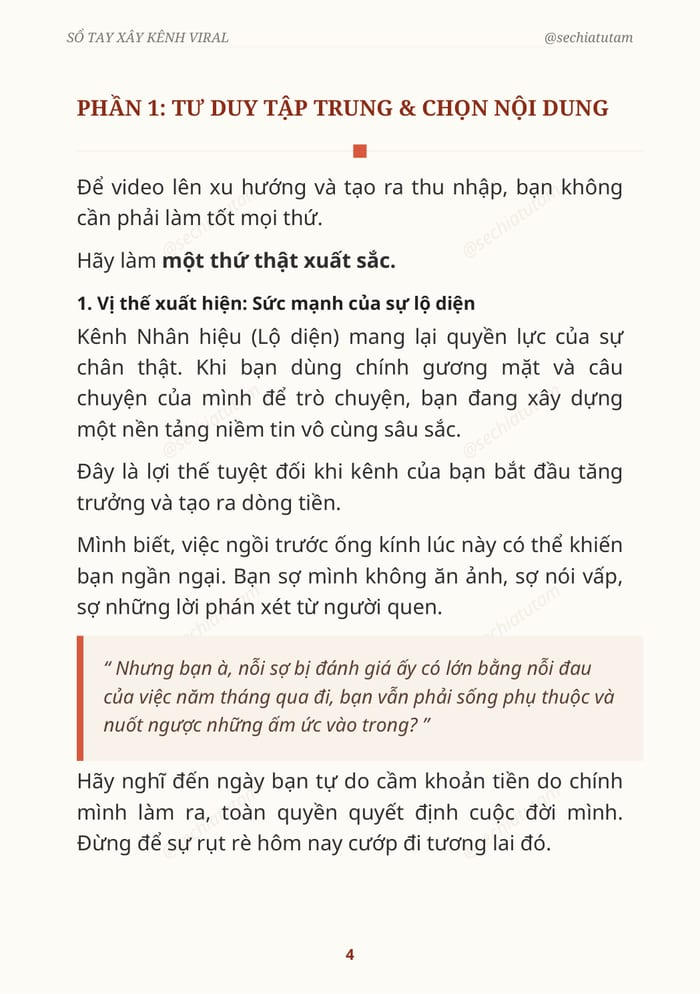
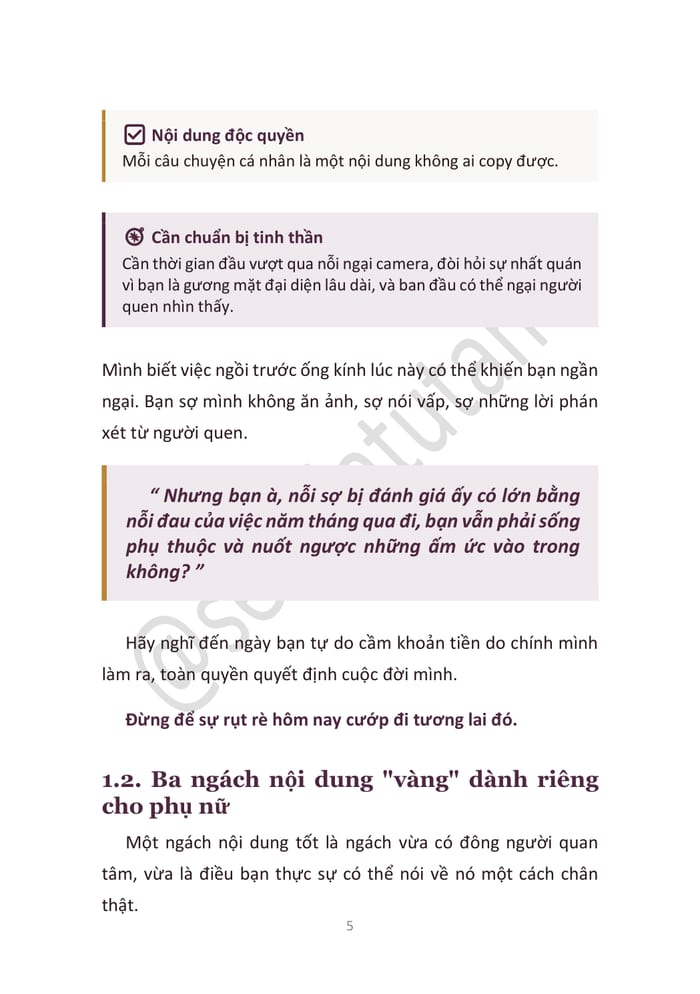
Cap nhat theo dung ban PDF cuoi cung (21 trang) ban thuc te
- Thay private/ bang file PDF chuan 21 trang ban gui (D:\sechiatutam\...)
  - ban nay day du hon ca 2 ban truoc, co them phan "Cach dung so tay"
  va "Lo trinh hanh dong 30 ngay"
- Sua FAQ tu "15 trang" (sai, tu ban cu) thanh dung "21 trang"
- Viet lai muc luc (TOC) khop chinh xac cau truc that: 8 phan thay vi 7,
  them P.6 "Lo trinh hanh dong 30 ngay"
- Lam lai 2 anh trang mau tu dung file PDF cuoi (trang 6: Vi the xuat
  hien, trang 9: Kich ban Thoi Mien) thay vi anh tu ban PDF cu da lac hau

diff --git a/public/index.html b/public/index.html
@@ -304,16 +304,17 @@
   <div class="wrap">
     <div class="toc-head">
       <p class="eyebrow" style="color:var(--gold)">Bên trong sổ tay</p>
-      <h2 style="font-size:1.9rem">7 phần, đọc hết trong một buổi</h2>
+      <h2 style="font-size:1.9rem">8 phần, đọc hết trong một buổi</h2>
       <p style="opacity:0.75">Đây là đúng mục lục thật của sổ tay — không giấu, không mập mờ.</p>
     </div>
     <div class="toc-list">
-      <div class="toc-item"><span class="toc-num">Mở đầu</span><div><h3>Quyền lực của sự tự chủ</h3><p>Vì sao xây kênh video ngắn là con đường thực tế nhất để giành lại quyền tự chủ tài chính.</p></div></div>
-      <div class="toc-item"><span class="toc-num">P.1</span><div><h3>Tư duy tập trung & chọn ngách nội dung</h3><p>3 ngách nội dung "vàng" dành riêng cho phụ nữ và quy luật "một kênh — một chủ đề".</p></div></div>
-      <div class="toc-item"><span class="toc-num">P.2</span><div><h3>Kịch bản "Thôi Miên"</h3><p>Tử huyệt 3 giây đầu tiên (The Hook) và quy trình ra 30 kịch bản viral/tháng chỉ trong 1 buổi bằng AI.</p></div></div>
-      <div class="toc-item"><span class="toc-num">P.3</span><div><h3>Sản xuất video không cần rành công nghệ</h3><p>Tự tạo bối cảnh quay (nói không với reup), lồng tiếng, phụ đề tự động và mẹo chọn nhạc nền.</p></div></div>
-      <div class="toc-item"><span class="toc-num">P.4</span><div><h3>Đăng tải & thuật toán điểm chạm</h3><p>Tần suất đăng, cách chọn hashtag, và "khung giờ vàng" 1 giờ đầu sau khi đăng.</p></div></div>
-      <div class="toc-item"><span class="toc-num">P.5</span><div><h3>Biến lượt xem thành dòng tiền</h3><p>4 mô hình kiếm tiền thực tế: sản phẩm số, tư vấn 1:1, tài trợ nhãn hàng, tiếp thị liên kết.</p></div></div>
+      <div class="toc-item"><span class="toc-num">Mở đầu</span><div><h3>Quyền lực của sự tự chủ</h3><p>Vì sao xây kênh video ngắn là con đường thực tế nhất để giành lại quyền tự chủ tài chính, và cách dùng cuốn sổ tay này để không bỏ cuộc giữa chừng.</p></div></div>
+      <div class="toc-item"><span class="toc-num">P.1</span><div><h3>Tư duy trước khi quay video đầu tiên</h3><p>Vị thế xuất hiện & sức mạnh của sự lộ diện, 3 ngách nội dung "vàng" dành riêng cho phụ nữ, và quy luật "1 kênh — 1 chủ đề".</p></div></div>
+      <div class="toc-item"><span class="toc-num">P.2</span><div><h3>Kịch bản "Thôi Miên" — nghệ thuật giữ chân người xem</h3><p>Tử huyệt 3 giây đầu (The Hook), 5 công thức hook dùng ngay, cấu trúc kịch bản 3 phần, và quy trình ra 30 kịch bản viral/tháng bằng AI.</p></div></div>
+      <div class="toc-item"><span class="toc-num">P.3</span><div><h3>Sản xuất video chuyên nghiệp chỉ với điện thoại</h3><p>Tự tạo bối cảnh quay (nói không với reup), ánh sáng & góc quay cơ bản, giọng nói, phụ đề tự động và mẹo chọn nhạc nền.</p></div></div>
+      <div class="toc-item"><span class="toc-num">P.4</span><div><h3>Đăng tải thông minh & thuật toán điểm chạm</h3><p>Tần suất đăng, cách chọn hashtag, "khung giờ vàng" 1 giờ đầu, và cách đọc chỉ số để cải thiện video sau.</p></div></div>
+      <div class="toc-item"><span class="toc-num">P.5</span><div><h3>Biến lượt xem thành dòng tiền</h3><p>4 mô hình kiếm tiền thực tế: sản phẩm số, tư vấn 1:1, tài trợ nhãn hàng, tiếp thị liên kết — và thứ tự nên làm trước sau.</p></div></div>
+      <div class="toc-item"><span class="toc-num">P.6</span><div><h3>Lộ trình hành động 30 ngày</h3><p>Lịch trình cụ thể theo từng ngày — từ chọn ngách, tạo kịch bản, quay tư liệu, đến đăng đủ video đầu tiên và nhìn lại sau 30 ngày.</p></div></div>
       <div class="toc-item"><span class="toc-num">Kết</span><div><h3>Bạn đã sẵn sàng chưa?</h3><p>Bước đầu tiên để bắt đầu ngay hôm nay, không cần chờ mọi thứ hoàn hảo.</p></div></div>
     </div>
     <div class="toc-preview">
@@ -363,7 +364,7 @@
     <h2 style="font-size:1.9rem; margin-bottom:20px;">Trước khi bạn nhấn nhận sổ tay</h2>
     <details class="faq-item" open>
       <summary>Sổ tay là file gì? Đọc trên điện thoại được không?</summary>
-      <p>Là file PDF 15 trang, đọc được trên điện thoại, máy tính bảng hoặc máy tính — mở bằng bất kỳ ứng dụng đọc PDF nào, không cần cài thêm gì.</p>
+      <p>Là file PDF 21 trang, đọc được trên điện thoại, máy tính bảng hoặc máy tính — mở bằng bất kỳ ứng dụng đọc PDF nào, không cần cài thêm gì.</p>
     </details>
     <details class="faq-item">
       <summary>Thanh toán xong bao lâu thì nhận được sách?</summary>
